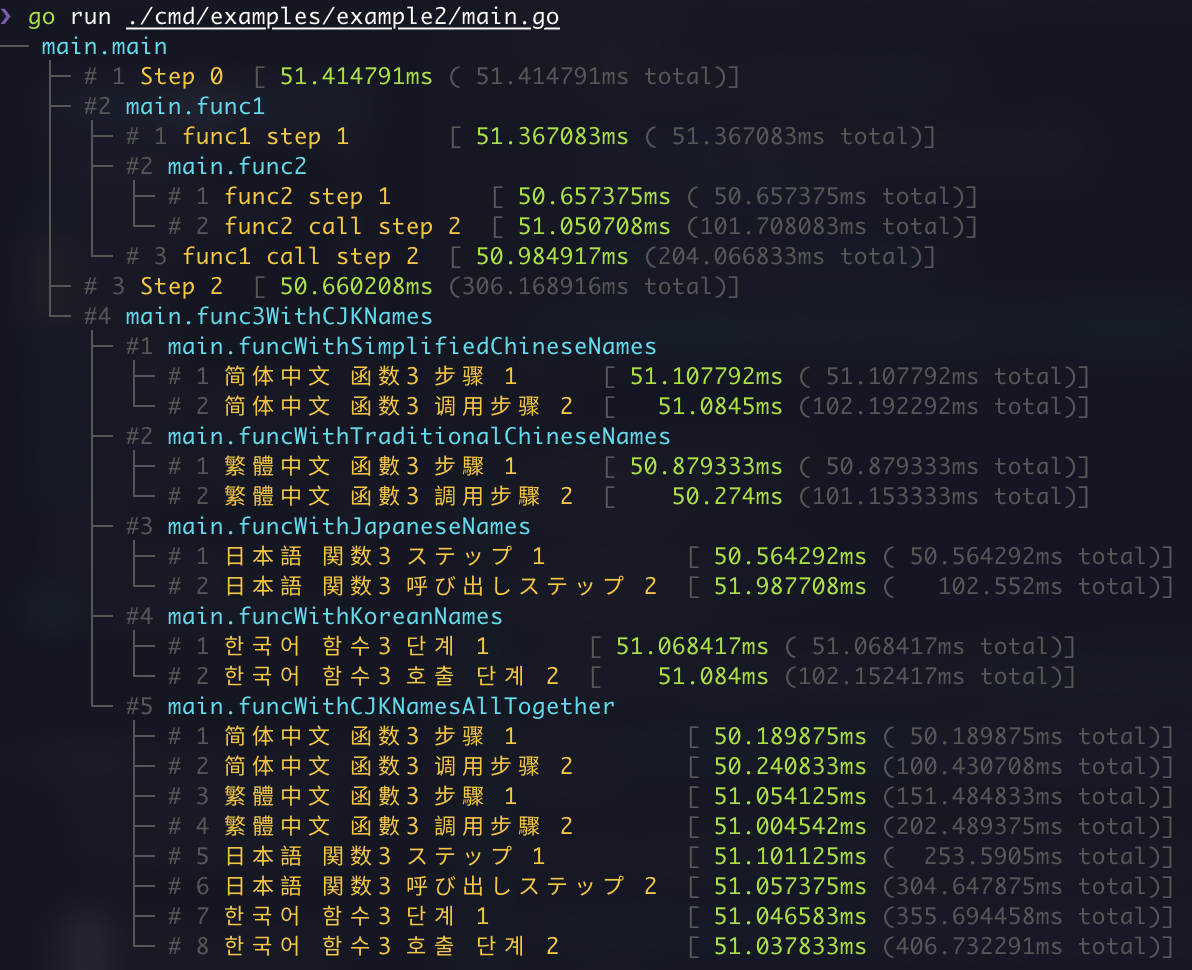
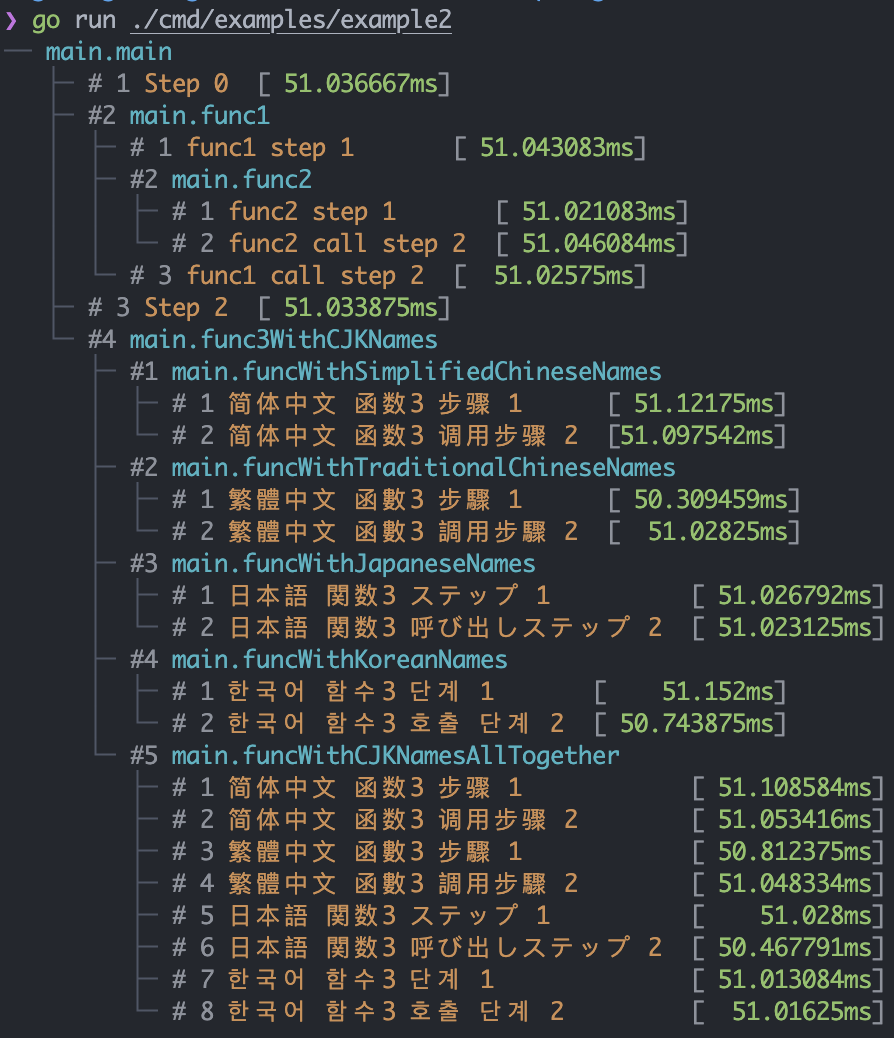
chore: removed total time stats

Changed region(s): [[0.0, 0.0, 0.9966, 0.9897], [0.5436, 0.0619, 0.5738, 0.0928]]

diff --git a/print.go b/print.go
@@ -20,16 +20,13 @@ func alterRenderedResultWithColor(renderResult string, style *list.Style, color 
 }
 
 const (
-	defaultSingleLineFormat = "%%s %%s %s%%v %s%%v %s%s%s"
+	defaultSingleLineFormat = "%%s %%s %s%%v%s"
 )
 
 var (
 	// format of [%s ( %s total)]
 	singleLineFormat = fmt.Sprintf(defaultSingleLineFormat,
 		color.FgGray.Render("["),
-		color.FgGray.Render("("),
-		color.FgGray.Render("total"),
-		color.FgGray.Render(")"),
 		color.FgGray.Render("]"),
 	)
 )
@@ -53,7 +50,7 @@ func (e *Elapsing) appendStatsDataToList(list list.Writer, parentIndex int) {
 	indexes, indexesMaxLength := e.steps.Indexes()
 	names, namesMaxLength := e.steps.Names()
 	lasts, lastsMaxLength := e.steps.Lasts()
-	totals, totalsMaxLength := e.steps.Totals()
+	// totals, totalsMaxLength := e.steps.Totals()
 
 	for i := range indexes {
 		if e.steps[i].Type() == StepTypeElapsing {
@@ -65,7 +62,6 @@ func (e *Elapsing) appendStatsDataToList(list list.Writer, parentIndex int) {
 			color.FgGray.Render(fmt.Sprintf("#%s", utils.StringPadStart(indexes[i], indexesMaxLength))),
 			color.FgYellow.Render(utils.StringPadEnd(names[i], namesMaxLength)),
 			color.FgGreen.Render(utils.StringPadStart(lasts[i], lastsMaxLength)),
-			color.FgGray.Render(utils.StringPadStart(totals[i], totalsMaxLength)),
 		))
 	}
 
